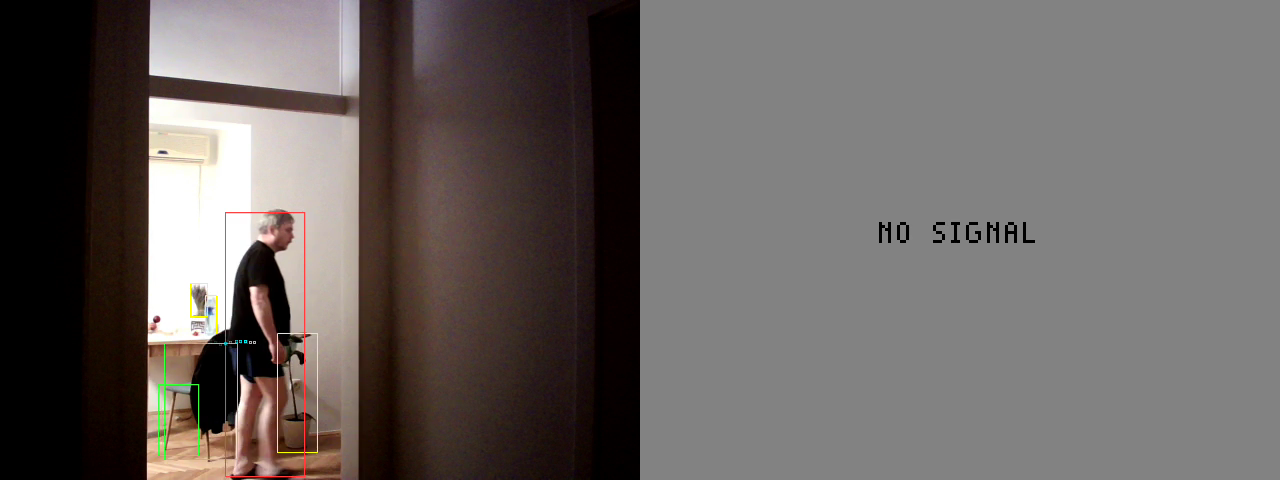
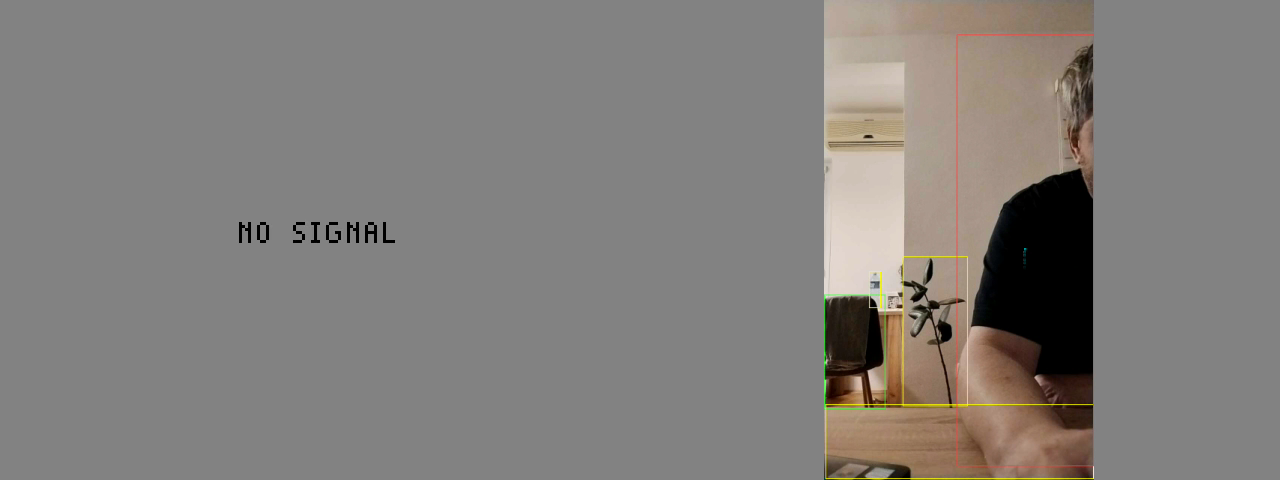
docs(light_ai): replace demo captures with clothed no-face frames

diff --git a/light_ai/README.md b/light_ai/README.md
@@ -28,13 +28,13 @@ Zero-copy hardware-accelerated object detection, Kalman tracking, and multi-came
 
 Sample output frames captured directly from the encoded H.264 preview stream on the RK3588 board (`yolov5s_relu_int8_mmse_v5.rknn`, `GpuBoxDrawer` + Kalman `Tracker` + `TrailWindow`):
 
-| Single Camera: Live Person Detection (`640×480`) | Single Camera: Walking Detection & Green Trail (`640×480`) |
+| Single Camera: Seated Person & Multi-Class (`640×480`) | Single Camera: Walking Detection & Green Trail (`640×480`) |
 |---|---|
-| ![Single camera crisp front-facing person and potted plant detection](docs/images/demo-single-walk.png) | ![Single camera person walking away with smooth green trail and chair box](docs/images/demo-single-trail.png) |
+| ![Single camera person seated at desk facing away with red detection box, chair, and plant](docs/images/demo-single-walk.png) | ![Single camera person walking away with smooth green trail and chair box](docs/images/demo-single-trail.png) |
 | **Dual Source `2×1`: Live Tracking + `NO SIGNAL` (`1280×480`)** | **Dual Source `2×1`: Mixed V4L2 + Portrait HTTP MJPEG (`1280×480`)** |
-| ![Dual source side-by-side layout with sharp person detection, cyan tracking trail, and NO SIGNAL plate](docs/images/demo-dual-track.png) | ![Dual source side-by-side landscape USB camera and portrait HTTP MJPEG stream](docs/images/demo-dual-mixed.png) |
-| **Dual Source `2×1`: `NO SIGNAL` Failover + Portrait Stream (`1280×480`)** | **Multi-View `2×2` Grid: 3 Active Mixed-Aspect Streams (`1280×960`)** |
-| ![Dual source showing NO SIGNAL idle plate on left slot and portrait person tracking on right slot](docs/images/demo-dual-nosignal.png) | ![Four-tile 2x2 grid with three live cameras detecting people simultaneously](docs/images/demo-grid-multi.png) |
+| ![Dual source showing NO SIGNAL idle plate on left slot and portrait live person tracking on right slot](docs/images/demo-dual-track.png) | ![Dual source side-by-side landscape USB camera and portrait HTTP MJPEG stream](docs/images/demo-dual-mixed.png) |
+| **Multi-View `2×2` Grid: `NO SIGNAL` Failover (`1280×960`)** | **Multi-View `2×2` Grid: 3 Active Mixed-Aspect Streams (`1280×960`)** |
+| ![Four-tile 2x2 grid showing NO SIGNAL failover on slot 0 and two active portrait person detections](docs/images/demo-grid-nosignal.png) | ![Four-tile 2x2 grid with three live cameras detecting people simultaneously](docs/images/demo-grid-multi.png) |
 
 ---
 
